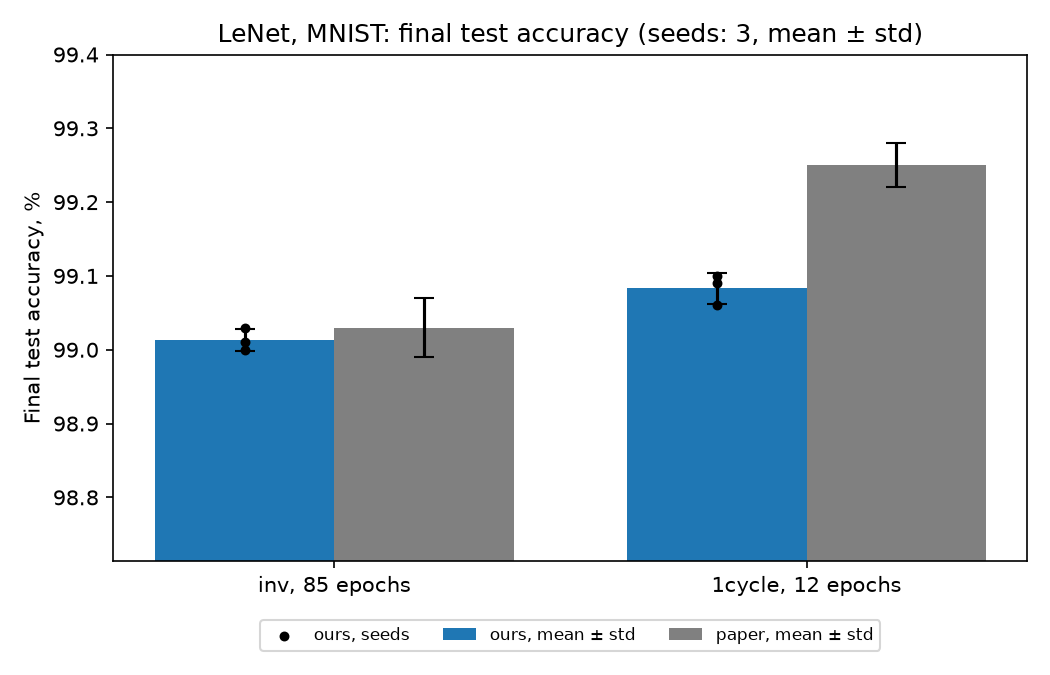
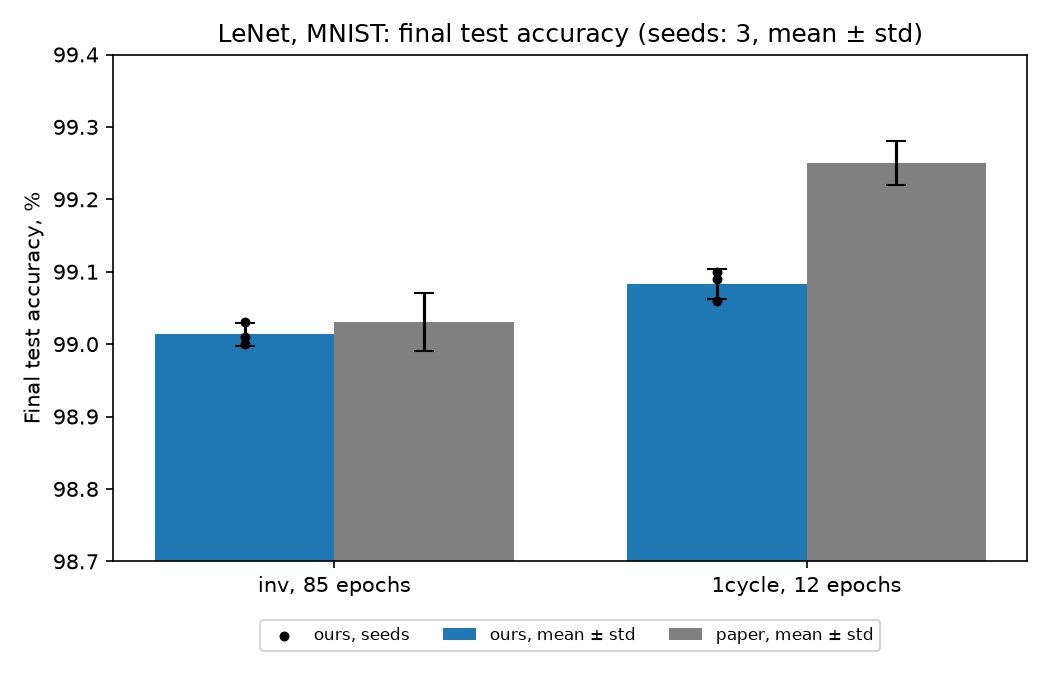
feat: report more data

diff --git a/analyze.py b/analyze.py
@@ -235,9 +235,9 @@ def final_accuracy_bars(groups, paper, title, directory, name):
     paper_mean = [paper[label][0] for label in labels if label in paper]
     paper_std = [paper[label][1] or 0 for label in labels if label in paper]
     ax.bar(paper_x, paper_mean, width, yerr=paper_std, capsize=5, color="gray", label="paper, mean ± std")
-    values = [d["mean"] for d in ours] + paper_mean
+    values = [d["mean"] for d in ours] + paper_mean + [100 * r["final"]["test_acc"] for g in groups.values() for r in g]
     span = max(values) - min(values)
-    ax.set_ylim(min(values) - max(0.3, 0.25 * span), max(values) + max(0.15, 0.05 * span))
+    ax.set_ylim(max(0.0, min(values) - max(0.3, 0.25 * span)), max(values) + max(0.15, 0.05 * span))
     ax.set_xticks(x, labels)
     ax.set_ylabel("Final test accuracy, %")
     ax.set_title(title)
